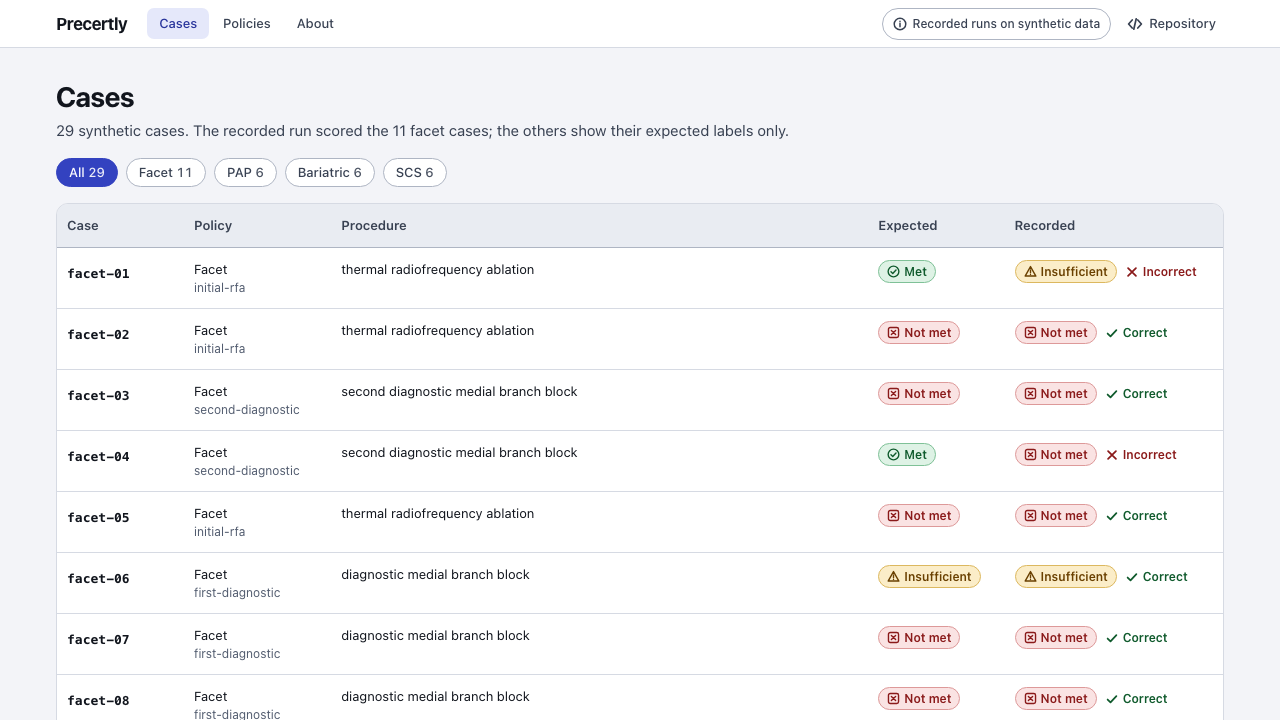
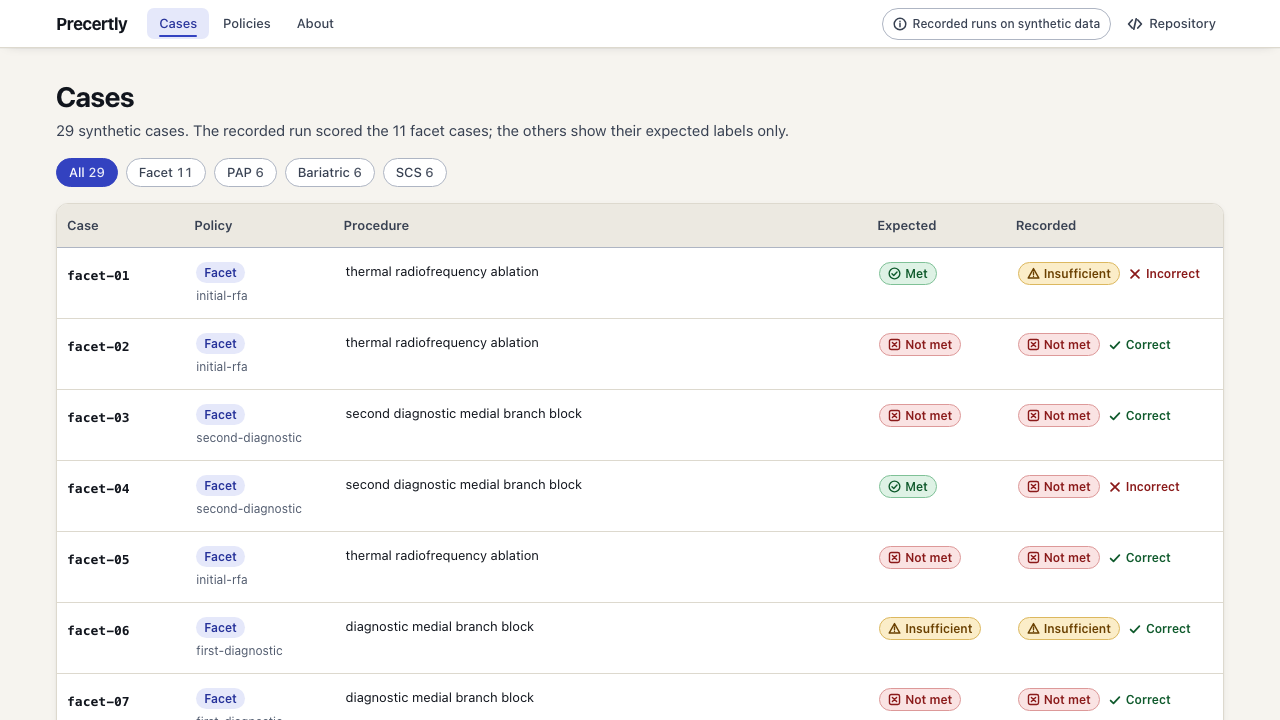
Polish the cases table: policy chips and more row padding
The policy column shows an accent-tint chip (never a verdict color), the
rows get a little more height and a soft hover transition, and the
table rests on the card shadow. The scroll region at 320 px is as before.

diff --git a/web/src/screens/CasesList.tsx b/web/src/screens/CasesList.tsx
@@ -27,11 +27,11 @@ function CaseTableRow({ row }: { row: CaseRow }) {
     <tr
       data-case-row={row.id}
       data-scored={row.scored}
-      className={`relative border-b border-line last:border-b-0 focus-within:bg-accent-soft ${
+      className={`relative border-b border-line last:border-b-0 transition-colors focus-within:bg-accent-soft motion-reduce:transition-none ${
         row.scored ? "bg-surface hover:bg-accent-soft" : "bg-sunken text-ink-3 hover:bg-accent-soft"
       }`}
     >
-      <td className="px-1 py-3 align-top first:pl-2.5 last:pr-2.5 sm:p-3">
+      <td className="px-1 py-3.5 align-top first:pl-2.5 last:pr-2.5 sm:p-3.5">
         <a
           href={href(["cases", row.id])}
           className="font-mono text-sm font-semibold text-inherit after:absolute after:inset-0 hover:underline"
@@ -40,15 +40,17 @@ function CaseTableRow({ row }: { row: CaseRow }) {
         </a>
         <span className="mt-0.5 block text-xs text-ink-3 md:hidden">{row.variant}</span>
       </td>
-      <td className="hidden p-3 align-top text-sm md:table-cell">
-        {SET_SHORT[row.set] ?? row.set}
-        <span className="block text-xs text-ink-3">{row.variant}</span>
+      <td className="hidden p-3.5 align-top text-sm md:table-cell">
+        <span className="inline-block rounded-full bg-chip px-2 py-0.5 text-xs font-semibold text-accent-strong">
+          {SET_SHORT[row.set] ?? row.set}
+        </span>
+        <span className="mt-1 block text-xs text-ink-3">{row.variant}</span>
       </td>
-      <td className="hidden p-3 align-top text-sm md:table-cell">{row.procedure}</td>
-      <td className="px-1 py-3 align-top first:pl-2.5 last:pr-2.5 sm:p-3">
+      <td className="hidden p-3.5 align-top text-sm md:table-cell">{row.procedure}</td>
+      <td className="px-1 py-3.5 align-top first:pl-2.5 last:pr-2.5 sm:p-3.5">
         <Pill state={row.expected_overall} />
       </td>
-      <td className="px-1 py-3 align-top first:pl-2.5 last:pr-2.5 sm:p-3">
+      <td className="px-1 py-3.5 align-top first:pl-2.5 last:pr-2.5 sm:p-3.5">
         {row.scored && row.predicted_overall ? (
           <span className="flex flex-col items-start gap-1 sm:flex-row sm:flex-wrap sm:items-center sm:gap-x-2">
             <Pill state={row.predicted_overall} />
@@ -97,7 +99,7 @@ export function CasesList() {
         role="region"
         aria-label="Cases table"
         tabIndex={0}
-        className="overflow-x-auto rounded-lg border border-line"
+        className="overflow-x-auto rounded-lg border border-line bg-surface shadow-card"
       >
         <table className="w-full border-collapse text-left" data-testid="cases-table">
           <caption className="sr-only">
